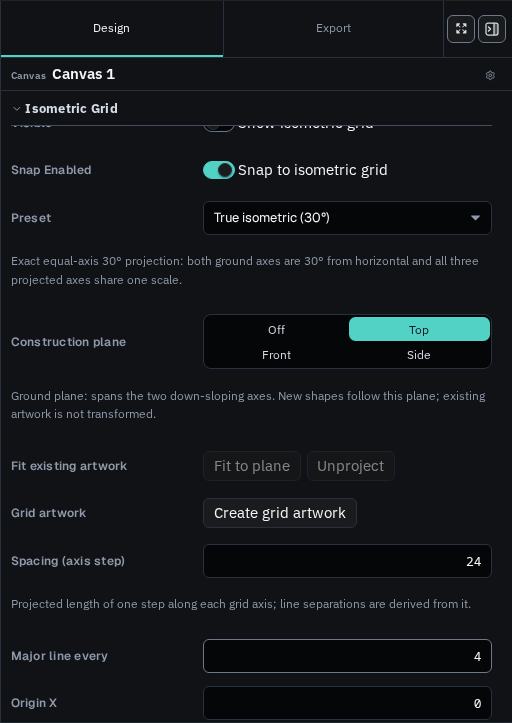
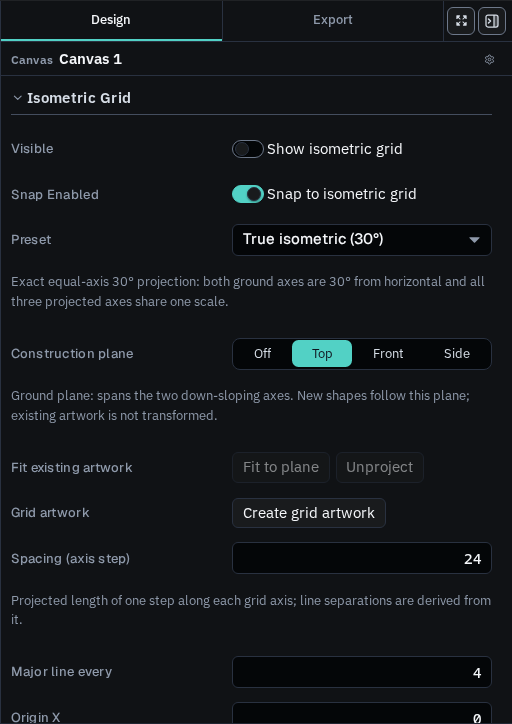
fix(ui): make radio-group layout content-driven and touch-aware
Inspector field rows were a fixed-minimum grid: four short labels
(Off/Top/Front/Side) wrapped into a 2x2 block, icon pickers stacked one per
row, and a squeezed label could clip without indication. Field rows are now
flex lines built from each segment's content width - short groups stay on one
row, longer labels wrap only when they must, and a single oversized label
shrinks and ellipsizes with its tooltip.

Segments also take the shared 44px touch minimum on coarse pointers, like
Button/Input/ToggleButton; the 24px track remains a desktop density choice.

Extends the radio-group spec with a viewport matrix (1440 to 375, inspector
drawer below 900px: no track overflow, no square segments, no page-level
horizontal scroll) and a touch-target check, refreshes the evidence
screenshots, and updates the contract/audit docs.

diff --git a/tests/e2e/inspector/radio-group-visual.spec.ts b/tests/e2e/inspector/radio-group-visual.spec.ts
@@ -37,16 +37,21 @@ async function segmentGeometry(page: Page, label: string) {
           checked: button.querySelector('input')?.checked ?? false,
           radius: style.borderRadius,
           width: button.getBoundingClientRect().width,
+          top: Math.round(button.getBoundingClientRect().top),
           labelWidth: labelElement?.getBoundingClientRect().width ?? 0,
           title: button.getAttribute('title'),
         };
       },
     );
-    const columns = getComputedStyle(group).gridTemplateColumns;
+    const rows = [...new Set(buttons.map((button) => button.top))].sort((a, b) => a - b);
+    const columnCount = Math.max(
+      ...rows.map((top) => buttons.filter((button) => button.top === top).length),
+    );
     return {
       trackRadius: track.borderRadius,
       buttons,
-      columnCount: columns === 'none' ? 1 : columns.split(' ').length,
+      rowCount: rows.length,
+      columnCount,
     };
   }, label);
 }
@@ -107,7 +112,10 @@ test.describe('radio-group system', () => {
     const checked = geometry.buttons.find((button) => button.checked);
     expect(checked?.text).toBe('Top');
     expect(parseRadius(checked?.radius ?? '0px')).toBeGreaterThan(0);
-    expect(geometry.columnCount).toBeGreaterThan(1);
+    // Content-driven wrapping: four short labels share one row at the reference
+    // rail instead of wrapping into a 2x2 grid.
+    expect(geometry.rowCount).toBe(1);
+    expect(geometry.columnCount).toBe(4);
 
     await page.evaluate(() => {
       document.documentElement.dataset.theme = 'dark';
@@ -172,13 +180,34 @@ test.describe('radio-group system', () => {
     ]) {
       await expect(justify.getByRole('radio', { name })).toHaveCount(1);
     }
-    // One tab stop; arrows move selection and focus.
+    // One tab stop; arrows move selection and focus. At the reference rail
+    // the six icon pickers share one row; at narrow rails they may wrap, but
+    // never into one option per row.
     const start = justify.getByRole('radio', { name: 'Justify to start' });
     await expect(start).toHaveAttribute('tabindex', '0');
-    const columns = await justify.evaluate(
-      (element) => getComputedStyle(element).gridTemplateColumns.split(' ').length,
-    );
-    expect(columns, 'icon pickers stay on a row instead of stacking').toBeGreaterThan(2);
+    await page.locator('.editor-shell').evaluate((shell) => {
+      (shell as HTMLElement).style.setProperty('--inspector-width', '513px');
+    });
+    await page.waitForTimeout(150);
+    const rowCount = async () =>
+      justify.evaluate((element) => {
+        const tops = new Set(
+          [...element.querySelectorAll<HTMLElement>('.varve-segmented__btn')].map((button) =>
+            Math.round(button.getBoundingClientRect().top),
+          ),
+        );
+        return tops.size;
+      });
+    expect(await rowCount(), 'icon pickers stay on a row at the reference rail').toBe(1);
+    await page.locator('.editor-shell').evaluate((shell) => {
+      (shell as HTMLElement).style.setProperty('--inspector-width', '240px');
+    });
+    await page.waitForTimeout(150);
+    expect(await rowCount(), 'icon pickers never stack one per row').toBeLessThan(6);
+    await page.locator('.editor-shell').evaluate((shell) => {
+      (shell as HTMLElement).style.setProperty('--inspector-width', '513px');
+    });
+    await page.waitForTimeout(150);
     await start.focus();
     await page.keyboard.press('ArrowRight');
     await expect(justify.getByRole('radio', { name: 'Justify center' })).toHaveAttribute(
@@ -279,5 +308,109 @@ test.describe('radio-group system', () => {
     expect(contrast.checkedBg).not.toBe(contrast.uncheckedBg);
     await group.screenshot({ path: resolve(DIR, '07-construction-plane-forced-colors.png') });
     await page.emulateMedia({ forcedColors: 'none' });
+  });
+
+  test('segmented controls stay contained across viewports and rails', async ({ page }) => {
+    test.setTimeout(240_000);
+    await page.setViewportSize({ width: 1440, height: 900 });
+    await navigateToEditor(page);
+    await openIsometricGrid(page);
+
+    const viewports = [
+      { name: 'desktop', width: 1440, height: 900 },
+      { name: 'laptop', width: 1120, height: 700 },
+      { name: 'compact', width: 900, height: 700 },
+      { name: 'tablet', width: 640, height: 800 },
+      { name: 'phone', width: 375, height: 667 },
+    ];
+
+    for (const viewport of viewports) {
+      await page.setViewportSize({ width: viewport.width, height: viewport.height });
+      await page.waitForTimeout(150);
+      // Below 900px the inspector is a drawer; open it with the FAB.
+      const fab = page.locator('.editor__fab--inspector');
+      if (await fab.isVisible().catch(() => false)) {
+        if ((await fab.getAttribute('aria-expanded')) !== 'true') await fab.click();
+        await page.waitForTimeout(250);
+      }
+
+      const report = await page.evaluate(() => {
+        const groups = [
+          ...document.querySelectorAll<HTMLElement>(
+            '.editor-inspector .varve-segmented, .varve-segmented--pill',
+          ),
+        ].filter((element) => element.getBoundingClientRect().height > 0);
+        const problems: string[] = [];
+        let visible = 0;
+        for (const group of groups) {
+          visible += 1;
+          const rect = group.getBoundingClientRect();
+          if (group.scrollWidth > group.clientWidth + 1) {
+            problems.push(`${group.getAttribute('aria-label')}: group overflows`);
+          }
+          for (const button of group.querySelectorAll<HTMLElement>('.varve-segmented__btn')) {
+            const buttonRect = button.getBoundingClientRect();
+            const radius = Number.parseFloat(getComputedStyle(button).borderRadius);
+            if (radius <= 0) {
+              problems.push(`${group.getAttribute('aria-label')}: square segment`);
+            }
+            if (buttonRect.right > rect.right + 1 || buttonRect.left < rect.left - 1) {
+              problems.push(`${group.getAttribute('aria-label')}: segment escapes track`);
+            }
+            const label = button.querySelector<HTMLElement>('.varve-segmented__label');
+            if (
+              label &&
+              getComputedStyle(label).display !== 'none' &&
+              !label.classList.contains('varve-visually-hidden') &&
+              label.scrollWidth > label.clientWidth + 1 &&
+              !button.getAttribute('title')
+            ) {
+              problems.push(`${group.getAttribute('aria-label')}: clipped label without tooltip`);
+            }
+          }
+        }
+        return {
+          problems,
+          visible,
+          pageOverflow: document.documentElement.scrollWidth > window.innerWidth + 1 ? 'yes' : 'no',
+        };
+      });
+
+      expect(report.problems, `${viewport.name} ${viewport.width}x${viewport.height}`).toEqual([]);
+      expect(report.pageOverflow, `${viewport.name} horizontal page scroll`).toBe('no');
+      if (viewport.width >= 900) expect(report.visible).toBeGreaterThan(0);
+    }
+
+    // Evidence: the smallest phone viewport with the inspector drawer open.
+    await page.setViewportSize({ width: 375, height: 667 });
+    await page.waitForTimeout(250);
+    await page.screenshot({ path: resolve(DIR, '08-phone-inspector.png') });
+  });
+});
+
+test.describe('radio-group touch targets', () => {
+  test.use({ hasTouch: true, viewport: { width: 1024, height: 768 } });
+
+  test('coarse pointers raise segments to the shared touch minimum', async ({ page }) => {
+    await navigateToEditor(page);
+    await openIsometricGrid(page);
+    const group = page.getByRole('radiogroup', { name: 'Active construction plane' });
+    await group.scrollIntoViewIfNeeded();
+    const sizes = await page.evaluate(() => {
+      const group = [...document.querySelectorAll<HTMLElement>('.varve-segmented')].find(
+        (element) => element.getAttribute('aria-label') === 'Active construction plane',
+      );
+      if (!group) throw new Error('no group');
+      return [...group.querySelectorAll<HTMLElement>('.varve-segmented__btn')].map((button) => {
+        const rect = button.getBoundingClientRect();
+        return { width: rect.width, height: rect.height };
+      });
+    });
+    expect(sizes.length).toBeGreaterThan(0);
+    for (const size of sizes) {
+      expect(size.height).toBeGreaterThanOrEqual(43);
+      expect(size.width).toBeGreaterThanOrEqual(43);
+    }
+    await group.screenshot({ path: resolve(DIR, '09-touch-targets.png') });
   });
 });

diff --git a/packages/editor/src/components/Inspector/inspector.css b/packages/editor/src/components/Inspector/inspector.css
@@ -6602,21 +6602,35 @@ fieldset.insp-canvas-props,
   max-inline-size: 100%;
 }
 
-/* Auto-fit on a minimum segment width: options wrap onto additional rows
- * instead of being clipped to "Linear R…" (the narrow-rail truncation
- * reported 2026-09-20). 6rem keeps the common four-option groups at a
- * balanced 2×2 inside the default control column; the old hard 2-column
- * container override forced columns below content width and is removed. */
+/* Content-driven wrapping: flex lines are built from each segment's content
+ * width, so short-label groups (Off / Top / Front / Side) stay on one row and
+ * longer labels wrap only when they must. A single label wider than the track
+ * shrinks (min-inline-size: 0) and ellipsizes with its tooltip instead of
+ * overflowing. The old fixed minimum forced four short options into a 2x2
+ * grid and stacked icon-only groups one per row. */
 .editor-inspector .insp-field__control > .varve-segmented {
-  display: grid;
-  grid-template-columns: repeat(auto-fit, minmax(min(6rem, 100%), 1fr));
+  display: flex;
+  flex-wrap: wrap;
+  row-gap: var(--space-1);
   inline-size: 100%;
   max-inline-size: 100%;
   min-inline-size: 0;
 }
 
-.editor-inspector .varve-segmented__btn {
+.editor-inspector .insp-field__control > .varve-segmented > .varve-segmented__btn {
+  flex: 1 1 auto;
   min-inline-size: 0;
+}
+
+/* Coarse pointers keep the shared touch minimum even though the inspector
+ * lets segments shrink for ellipsis; the min width must win over that shrink. */
+@media (pointer: coarse) {
+  .editor-inspector .insp-field__control > .varve-segmented > .varve-segmented__btn {
+    min-inline-size: var(--touch-target-min);
+  }
+}
+
+.editor-inspector .varve-segmented__btn {
   max-inline-size: 100%;
   overflow: hidden;
   text-overflow: ellipsis;
@@ -6628,15 +6642,6 @@ fieldset.insp-canvas-props,
   overflow: hidden;
   text-overflow: ellipsis;
   white-space: nowrap;
-}
-
-/* Icon-only field groups keep a compact minimum so a four- or six-icon picker
- * stays on one row (or a balanced wrap) instead of inheriting the 6rem text
- * minimum and stacking one option per row. */
-.editor-inspector
-  .insp-field__control
-  > .varve-segmented:has(> .varve-segmented__btn > .varve-segmented__label.varve-visually-hidden) {
-  grid-template-columns: repeat(auto-fit, minmax(min(2.5rem, 100%), 1fr));
 }
 
 .editor-inspector .insp-field__control > div:has(> .insp-per-side),

diff --git a/tests/unit/radio-group-system.test.ts b/tests/unit/radio-group-system.test.ts
@@ -82,9 +82,13 @@ describe('radio-group geometry guard', () => {
     expect(declarations).toContain('border-radius: var(--radius-pill)');
   });
 
-  it('allows inspector segments to wrap at content width instead of clipping', () => {
+  it('wraps inspector segments by content instead of clipping or stacking', () => {
     const inspectorCss = read(INSPECTOR);
-    expect(inspectorCss).toContain('repeat(auto-fit, minmax(min(6rem, 100%), 1fr))');
+    const wrapRule = inspectorCss.match(
+      /\.insp-field__control > \.varve-segmented \{[^}]*flex-wrap: wrap[^}]*\}/s,
+    );
+    expect(wrapRule).not.toBeNull();
+    expect(wrapRule?.[0]).toContain('min-inline-size: 0');
     const fixedGrids = inspectorCss.match(
       /\.insp-field__control > \.varve-segmented \{[^}]*repeat\(\s*\d/gs,
     );
@@ -99,14 +103,5 @@ describe('radio-group geometry guard', () => {
     expect(labelRule).not.toBeNull();
     expect(labelRule?.[0]).toContain('text-overflow: ellipsis');
     expect(labelRule?.[0]).toContain('min-inline-size: 0');
-  });
-
-  it('keeps icon-only field groups compact instead of stacking one per row', () => {
-    const inspectorCss = read(INSPECTOR);
-    const iconRule = inspectorCss.match(
-      /\.varve-segmented:has\([^)]*varve-visually-hidden[^)]*\)\s*\{[^}]*\}/s,
-    );
-    expect(iconRule).not.toBeNull();
-    expect(iconRule?.[0]).toContain('minmax(min(2.5rem, 100%), 1fr)');
   });
 });

diff --git a/packages/ui/src/components/components.css b/packages/ui/src/components/components.css
@@ -1366,6 +1366,15 @@
 .varve-segmented__label {
   display: inline;
 }
+/* Touch devices get the shared minimum target. The compact 24px track is a
+ * desktop density choice; Button, Input, and ToggleButton already raise
+ * themselves the same way on coarse pointers. */
+@media (pointer: coarse) {
+  .varve-segmented__btn {
+    min-block-size: var(--touch-target-min);
+    min-inline-size: var(--touch-target-min);
+  }
+}
 [data-theme="high-contrast"] .varve-segmented {
   border-color: var(--color-border-subtle);
 }

diff --git a/docs/audits/radio-group-review-2026-09-20.md b/docs/audits/radio-group-review-2026-09-20.md
@@ -18,7 +18,7 @@ the remaining role/keyboard/label defects.
 |----|---------|----------|-------|----------|
 | RG-10 | Segmented geometry | Measured in Chromium: track `border-radius: 8px`, every `.varve-segmented__btn` `0px`; selected "Top" rendered as a square chip inside a rounded track (user-reported screenshot) | P0 visual defect from two radius owners disagreeing (`radius-system.css` flattened members; `components.css` had its own values) | FIX: derived inset radius in `radius-system.css`, duplicate declarations removed |
 | RG-11 | Pill variant geometry | Home view switcher measured track `8px`, thumb `9999px` — capsule inside rounded rectangle | P0 visual defect (same cause; `--pill` track rule lost to load order) | FIX: pill radii for both levels in the geometry owner |
-| RG-12 | Narrow-rail truncation | At a 240px inspector rail, "Linear RGB" (60px) rendered in a 56px segment with `overflow:hidden` and no working ellipsis: hard clip, no indication | P1 readability defect; "clipped labels" is a top segmented-control complaint in the research | FIX: content-width auto-fit grid + label ellipsis + tooltip; the fixed 2-column container override removed |
+| RG-12 | Narrow-rail truncation | At a 240px inspector rail, "Linear RGB" (60px) rendered in a 56px segment with `overflow:hidden` and no working ellipsis: hard clip, no indication | P1 readability defect; "clipped labels" is a top segmented-control complaint in the research | FIX: content-driven auto-fit (`minmax(fit-content, 1fr)`) + label ellipsis + tooltip; the fixed 2-column container override removed |
 | RG-13 | Upscale dialog | `.varve-segmented` used `overflow-x: auto`, producing a horizontal scroll strip for quality/scale options | P1 (hidden options at the inline end) | FIX: `flex-wrap: wrap` |
 | RG-14 | `AlignDistributeBar` alignment reference | `role="radiogroup"` contained three `aria-pressed` buttons; no radio children | P1 ARIA ownership violation (same class as the workspace-dock fix) | FIX: labelled `role="group"` |
 | RG-15 | `CropOverlay` aspect + guides | `role="radio"` buttons, every option a Tab stop, no arrow keys | P1 APG gap in a canvas overlay | FIX: shared local `CropRadioGroup` helper (roving tabindex, arrows, Home/End, focus follows selection) |
@@ -29,7 +29,7 @@ the remaining role/keyboard/label defects.
 | RG-20 | `ToolOptionsPopover`, `WorkspaceTabs`, `BrushBrowser`, `ColorSpaceSelector`, `ColorFields`, website `ThemeToggle` | Purpose-built chrome; APG model already present or completed by the 2026-09-19 pass | Distinct contexts with their own visuals | KEEP, contract pinned in `docs/design/radio-group-system.md` |
 | RG-21 | `TextDiscoveryPanel`, `IntelligencePanel` | Native radios in named groups; Intelligence adds a redundant roving handler but keeps the native name group | Acceptable; native keyboard model present | KEEP (no change) |
 | RG-22 | Modal crop key capture | `inputPipeline`'s window-capture `handleModalCropKey` consumed Arrow keys for `CropTool` before any widget saw them, so the crop toolbar's radiogroups could not be operated by keyboard (`stopPropagation` at window) | P1 keyboard defect found by the new E2E spec | FIX: `[role="radiogroup"]` added to the shortcut-ignore selector, alongside combobox/slider/listbox |
-| RG-23 | Inspector icon groups stacked | After the 6rem text minimum landed, icon-only groups (Layout align/justify) inherited it and rendered one option per row | P2 density regression | FIX: icon-only groups use a 2.5rem minimum and stay on a row |
+| RG-23 | Inspector icon groups stacked | A fixed 6rem text minimum made icon-only groups (Layout align/justify) render one option per row | P2 density regression | FIX: content-driven tracks; the icon-specific minimum is no longer needed |
 
 ## What changed
 
@@ -55,8 +55,12 @@ the remaining role/keyboard/label defects.
     `component-status.md` links the contract; website settings docs describe
     the limits.
 12. `tests/e2e/inspector/radio-group-visual.spec.ts` — permanent rendered
-    geometry + keyboard contract coverage, evidence screenshots under
+    geometry, keyboard, viewport-matrix, and touch-target coverage, with
+    evidence screenshots under
     `docs/screenshots/2026-09-20-radio-group-review/`.
+13. Responsive pass: inspector field rows wrap by content
+    (`flex-wrap: wrap`, `flex: 1 1 auto`, `min-inline-size: 0`), and coarse
+    pointers raise every segment to the shared 44px touch minimum.
 
 ## Rendered evidence
 
@@ -65,13 +69,19 @@ Measured in Chromium (Playwright, lease-wrapped, isolated port):
 - Before: track `8px` / segment `0px`; pill track `8px` / thumb `9999px`;
   construction-plane group 2×2 with 82.5px columns at the default rail.
 - After: track `8px` / segment `6.448px`; pill track and thumb `9999px`;
-  construction-plane 2×2 at 141px columns on a 513px rail, 2×2 at 93–75px on
-  360–300px rails, one full-width column at 240px, no clipping; Layout
-  align/justify icon pickers on one row (4) and a balanced 4+2 wrap (6).
+  construction plane on one row at the reference rail (four columns), a
+  content-driven wrap below that, labels ellipsized with tooltips when a
+  single label exceeds the track, and no group overflow.
+- Viewport matrix (1440×900, 1120×700, 900×700, 640×800, 375×667, inspector
+  drawer opened below 900px): no group overflows its track, no square
+  segments, no clipped label without a tooltip, and no page-level horizontal
+  scrolling.
+- Coarse pointer (`hasTouch`): every segment is at least 44×44 CSS px.
 - Screenshots: `docs/screenshots/2026-09-20-radio-group-review/`
   (construction plane dark/light/narrow, view-mode pill, layout icon
-  pickers, crop toolbar, forced colors). Raw diagnostic captures remain in
-  the gitignored `reports/radio-group-review/`.
+  pickers, crop toolbar, forced colors, phone inspector drawer, touch
+  targets). Raw diagnostic captures remain in the gitignored
+  `reports/radio-group-review/`.
 
 ## Research basis
 

diff --git a/docs/design/radio-group-system.md b/docs/design/radio-group-system.md
@@ -64,16 +64,22 @@ variant rounds both levels. State changes never change radius.
 
 ### Responsive behavior
 
-- **Wrap, never clip.** Inspector field columns use
-  `repeat(auto-fit, minmax(min(6rem, 100%), 1fr))`: options wrap onto
-  additional rows instead of shrinking below their labels. When a segment is
-  genuinely squeezed, its label ellipsizes and the tooltip still carries the
-  full text.
+- **Wrap by content, never clip.** Inspector field rows are flex lines built
+  from each segment's content width (`flex-wrap: wrap`, `flex: 1 1 auto`,
+  `min-inline-size: 0`): short-label groups (Off/Top/Front/Side) stay on one
+  row and longer labels wrap only when they genuinely must. A single label
+  wider than the track shrinks and ellipsizes with its tooltip instead of
+  overflowing.
 - **No horizontal scroll strips.** A scrolled segmented control hides options
   at the inline end; wrap instead (the Upscale dialog does).
 - Icon-only variants stay on one row longest because their targets are
   uniform; text variants wrap by content width.
-- Touch targets stay at the shared minimum on coarse pointers.
+- **Touch devices** raise every segment to the shared 44px minimum
+  (`@media (pointer: coarse)`), matching Button, Input, and ToggleButton; the
+  24px track is a desktop density choice.
+- **Narrow viewports:** below 900px the Inspector is a drawer; the control
+  keeps the same wrap rules and never introduces page-level horizontal
+  scrolling.
 
 ## RadioGroup / native radios
 
